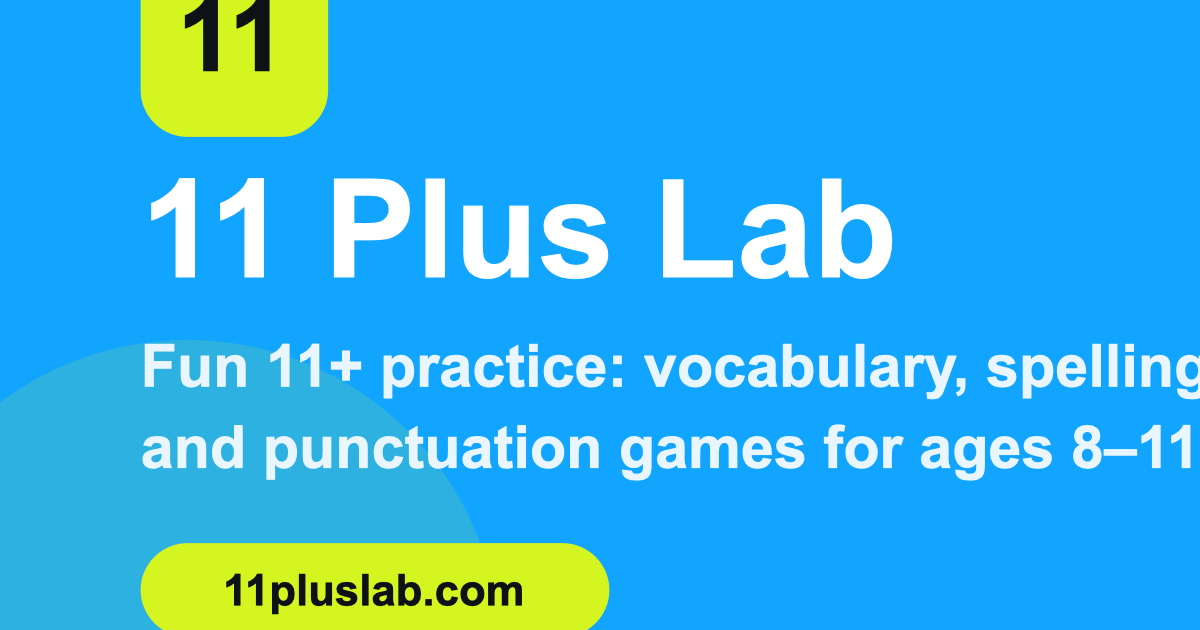
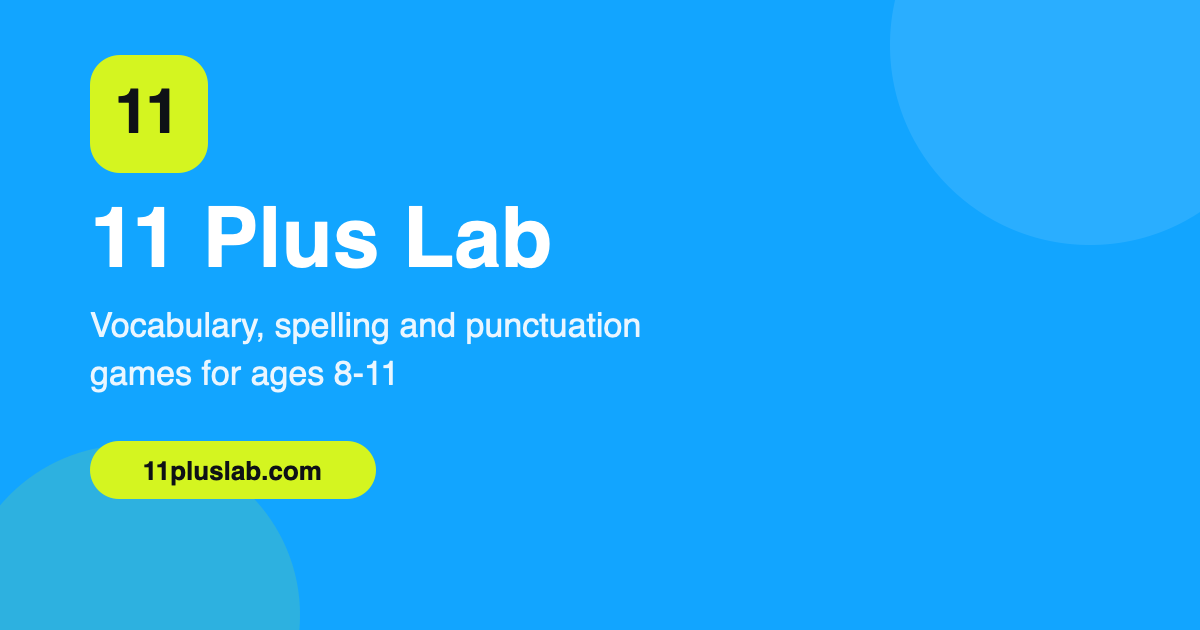
Fix share image framing; add monitoring, cookieless analytics and support contact
- Regenerate the Open Graph image on a square canvas so nothing is cropped
  (the previous render scaled the 1200x630 art and cut the right edge off).
- Sentry error monitoring, inactive unless VITE_SENTRY_DSN is set; the error
  boundary now reports crashes instead of only logging them.
- Vercel Web Analytics (cookieless — no consent banner needed for a kids' app).
- Settings: 'Contact support' row that opens a prefilled email, sharing the
  support address with the legal docs so they can't drift.

Changed region(s): [[0.0, 0.4825, 1.0, 1.0], [0.0617, 0.0, 0.5242, 0.4524], [0.555, 0.2714, 0.7708, 0.4524]]

diff --git a/src/components/SettingsScreen.jsx b/src/components/SettingsScreen.jsx
@@ -4,7 +4,7 @@ import { getStats } from "../utils/gamify";
 import { useAuth } from "../contexts/AuthContext";
 import { usePremium } from "../contexts/PremiumContext";
 import { openBillingPortal } from "../utils/subscription";
-import LegalModal from "./LegalModal";
+import LegalModal, { CONTACT } from "./LegalModal";
 import Icon from "./Icon";
 import { formatDate } from "./SubscriptionSuccess";
 
@@ -182,6 +182,14 @@ export default function SettingsScreen({ onOpenReport }) {
             </div>
           </React.Fragment>
         ))}
+        <div className="set-divider" />
+        <div className="set-row">
+          <div className="set-row-txt"><div className="set-row-label">Contact support</div><div className="set-row-sub">Questions, problems or billing — we'll reply by email</div></div>
+          <a
+            className="set-ghost"
+            href={`mailto:${CONTACT}?subject=${encodeURIComponent("11 Plus Lab — support")}&body=${encodeURIComponent(`\n\n---\nAccount: ${user?.email || "(not signed in)"}\nPlan: ${isPremium ? "Full Access" : "Free"}`)}`}
+          >Email us</a>
+        </div>
         <div className="set-divider" />
         <div className="set-row">
           <div className="set-row-txt"><div className="set-row-label">Child PIN</div><div className="set-row-sub">A 4-digit PIN to start a session (soft lock)</div></div>

diff --git a/src/utils/monitoring.js b/src/utils/monitoring.js
@@ -1,0 +1,25 @@
+// Error monitoring. Inactive until VITE_SENTRY_DSN is set, so local/dev runs
+// and forks stay silent. Privacy-conscious defaults for a children's app:
+// no session replay, no PII, low trace sampling.
+import * as Sentry from "@sentry/react";
+
+const DSN = (import.meta.env.VITE_SENTRY_DSN || "").trim();
+
+export function initMonitoring() {
+  if (!DSN) return false;
+  Sentry.init({
+    dsn: DSN,
+    environment: import.meta.env.MODE,
+    sendDefaultPii: false,
+    tracesSampleRate: 0.1,
+    // Ignore noise we can't act on.
+    ignoreErrors: ["ResizeObserver loop", "Non-Error promise rejection captured"],
+  });
+  return true;
+}
+
+// Called by the error boundary so crashes are reported, not just logged.
+export function reportError(error, info) {
+  if (!DSN) return;
+  Sentry.captureException(error, { extra: { componentStack: info?.componentStack } });
+}

diff --git a/src/App.css b/src/App.css
@@ -3110,3 +3110,6 @@ body {
 .login2-forgot { align-self: flex-end; background: none; border: none; cursor: pointer; color: var(--brand-ink); font-weight: 700; font-size: 0.8rem; padding: 2px 0; }
 .login2-forgot:hover { text-decoration: underline; }
 .login2-notice { background: #eefaf0; color: #15803d; border-radius: 12px; padding: 10px 12px; font-size: 0.85rem; font-weight: 600; line-height: 1.45; }
+
+/* "Email us" is an <a> but must match the ghost buttons next to it */
+a.set-ghost { display: inline-flex; align-items: center; justify-content: center; text-decoration: none; }

diff --git a/src/components/ErrorBoundary.jsx b/src/components/ErrorBoundary.jsx
@@ -1,4 +1,5 @@
 import React from "react";
+import { reportError } from "../utils/monitoring";
 
 // Catches any render/runtime error in the tree below it and shows a friendly,
 // child-safe screen instead of a blank white page. Class component because only
@@ -16,6 +17,7 @@ export default class ErrorBoundary extends React.Component {
   componentDidCatch(error, info) {
     // Log for debugging; in production this could go to an error service.
     console.error("App error boundary caught:", error, info);
+    reportError(error, info);
   }
 
   handleReload = () => {

diff --git a/src/components/LegalModal.jsx b/src/components/LegalModal.jsx
@@ -2,7 +2,7 @@ import React from "react";
 
 // Simple in-app Privacy Policy / Terms. Plain, honest, UK-oriented. Have a
 // solicitor review before scaling — placeholders marked need your real details.
-const CONTACT = "hello@11pluslab.com"; // TODO: confirm your real support email
+export const CONTACT = "hello@11pluslab.com"; // TODO: confirm your real support email
 const APP = "11 Plus Lab";
 const ENTITY = "Urban Crunch Media Private Limited";
 const UPDATED = "September 2026";

diff --git a/src/main.jsx b/src/main.jsx
@@ -3,11 +3,16 @@ import { createRoot } from 'react-dom/client'
 import './index.css'
 import App from './App.jsx'
 import ErrorBoundary from './components/ErrorBoundary.jsx'
+import { Analytics } from '@vercel/analytics/react'
+import { initMonitoring } from './utils/monitoring.js'
+
+initMonitoring()
 
 createRoot(document.getElementById('root')).render(
   <StrictMode>
     <ErrorBoundary>
       <App />
+      <Analytics />
     </ErrorBoundary>
   </StrictMode>,
 )
